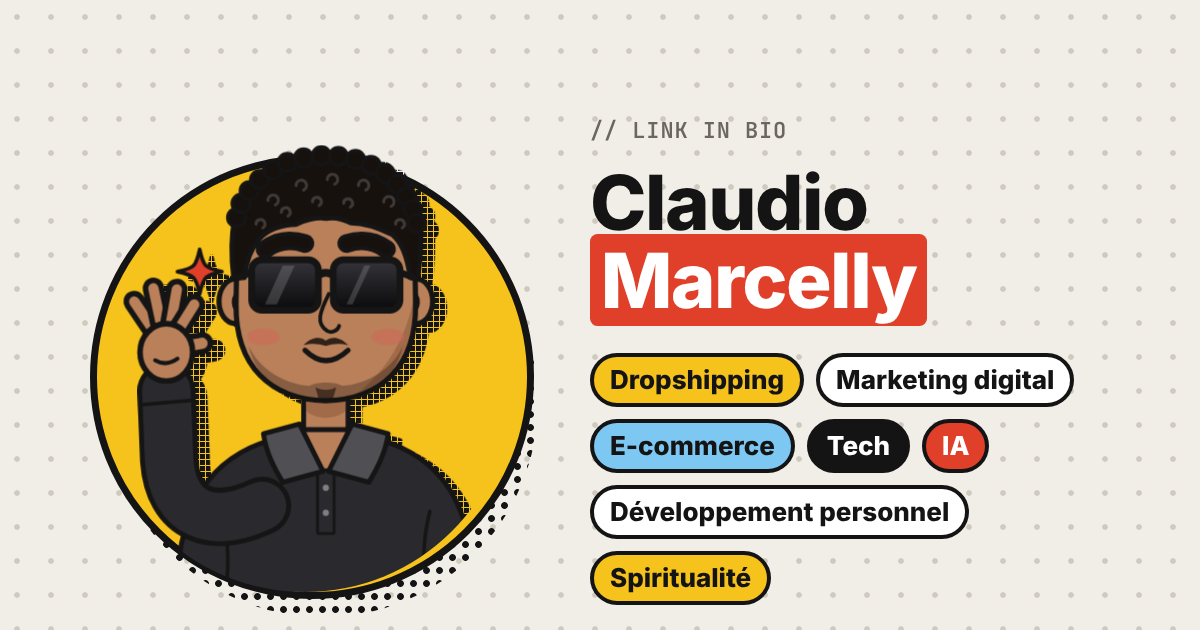
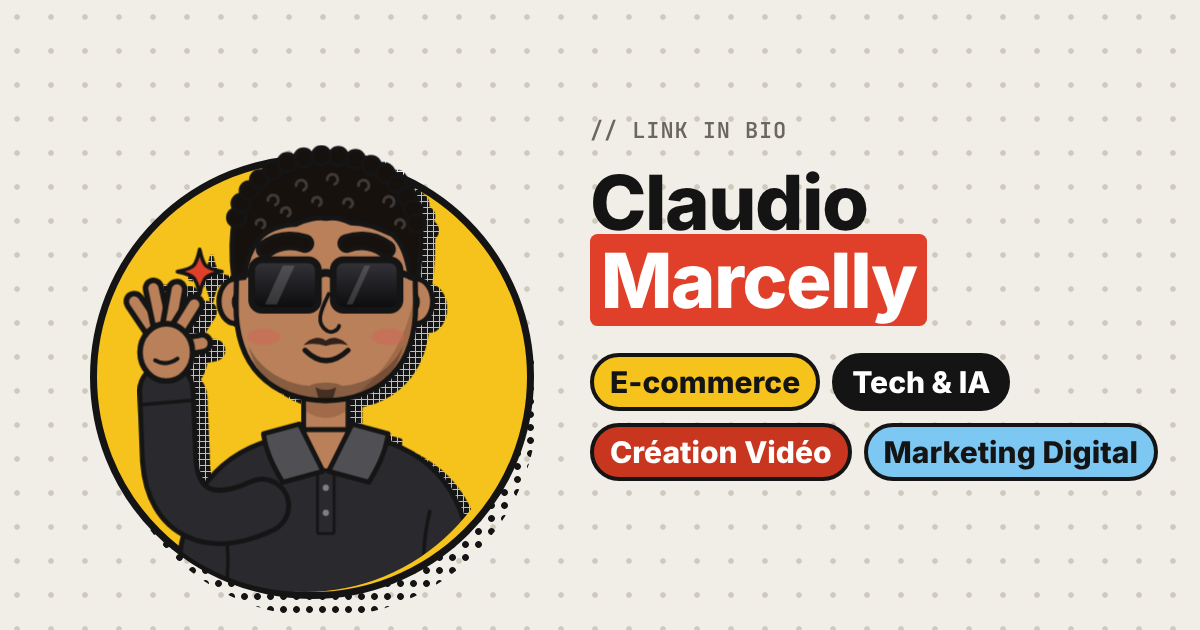
Sharpen positioning and polish conversion, a11y and mobile
- Header: 4 themes (E-commerce, Tech & IA, Création Vidéo, Marketing
  Digital); meta and share image updated.
- Favicon moved from a base64 data URI to favicon.png (-10 KB of HTML).
- Training card: 9:16 animated preview in the creator's video style
  (pure CSS, swappable for a <video>), "Format 100 % pratique" line.
- Calendly training link no longer in the markup: the booking button is
  created by JS only after the screenshot is confirmed, from a
  CALENDLY_FORMATION constant; dead data-calendly-direct code removed.
- TikTok card shown (@claudiomarcelly).
- Poll appears after 4 s or on first scroll instead of 0.9 s.
- Cleanup: single privacy note, maintenance notice kept as a comment,
  darker red (#C9361F) behind white text for 4.5:1 contrast, honeypot
  fields no longer extend past the viewport.

Claude-Session: https://claude.ai/code/session_011Zoe9ed2Q9z1aWz7E23U5T

Changed region(s): [[0.4933, 0.5429, 0.9867, 0.9651]]

diff --git a/index.html b/index.html
@@ -7,7 +7,7 @@
   <meta charset="UTF-8" />
   <meta name="viewport" content="width=device-width, initial-scale=1, viewport-fit=cover" />
   <title>Claudio Marcelly | Liens</title>
-  <meta name="description" content="Claudio Marcelly — Dropshipping, marketing digital, e-commerce, tech, IA, développement personnel et spiritualité. Réserve un appel ou retrouve-moi sur WhatsApp, YouTube et Instagram." />
+  <meta name="description" content="Claudio Marcelly — E-commerce, tech &amp; IA, création vidéo et marketing digital. Réserve un appel, rejoins la formation vidéo ou retrouve-moi sur mes réseaux." />
   <meta name="theme-color" content="#F1EEE8" />
   <meta name="color-scheme" content="light" />
   <link rel="canonical" href="https://marcellyclaudio2623.github.io/Linkinbio/" />
@@ -16,14 +16,14 @@
   <meta property="og:type" content="profile" />
   <meta property="og:url" content="https://marcellyclaudio2623.github.io/Linkinbio/" />
   <meta property="og:title" content="Claudio Marcelly" />
-  <meta property="og:description" content="Dropshipping, marketing digital, e-commerce, tech, IA, développement personnel et spiritualité. Réserve un appel ou retrouve-moi sur mes réseaux." />
+  <meta property="og:description" content="E-commerce, tech &amp; IA, création vidéo et marketing digital. Réserve un appel ou rejoins la formation vidéo." />
   <meta property="og:image" content="https://marcellyclaudio2623.github.io/Linkinbio/og-image.png" />
   <meta property="og:image:width" content="1200" />
   <meta property="og:image:height" content="630" />
   <meta name="twitter:card" content="summary_large_image" />
 
-  <!-- Favicon : la tête du personnage (PNG intégré, pas de fichier séparé) -->
[1 lines of base64/hex data omitted]
+  <!-- Favicon : la tête du personnage (fichier favicon.svg) -->
+  <link rel="icon" type="image/svg+xml" href="favicon.svg" />
 
   <!-- =========================================================
        POLICES (charte du studio présentateur)
@@ -54,6 +54,7 @@
       --encre:  #141414;   /* traits et texte */
       --gris:   #6B675F;   /* texte secondaire (contraste > 4.5:1) */
       --rouge:  #E0402A;   /* accent principal */
+      --rouge-fonce: #C9361F; /* fond rouge sous du texte blanc (contraste 5,2:1) */
       --jaune:  #F6C21C;
       --bleu:   #7CC8F2;
       --carte:  #FFFFFF;
@@ -245,7 +246,7 @@
     .theme--jaune { background: var(--jaune); }
     .theme--bleu  { background: var(--bleu); }
     .theme--encre { background: var(--encre); color: #fff; }
-    .theme--rouge { background: var(--rouge); color: #fff; }
+    .theme--rouge { background: var(--rouge-fonce); color: #fff; }
 
     /* Texte lu par les lecteurs d'écran, invisible à l'œil */
     .sr-only {
@@ -259,6 +260,7 @@
       white-space: nowrap;
       border: 0;
     }
+    .sr-only * { width: 1px; min-width: 0; }   /* champs pièges : rien ne dépasse de l'écran */
 
     /* =========================================================
        5. LIENS : cartes blanches, trait épais, ombre en points
@@ -431,6 +433,89 @@
     .etapes li::marker { color: var(--rouge); font-family: var(--mono); font-weight: 600; }
     .etapes a { color: var(--rouge); font-weight: 700; text-decoration: underline; text-underline-offset: 3px; overflow-wrap: anywhere; }
 
+    /* Formation : aperçu 9:16 à gauche, texte à droite */
+    .formation__intro {
+      display: grid;
+      grid-template-columns: auto minmax(0, 1fr);
+      gap: 14px;
+      align-items: center;
+    }
+    .formation__texte { display: grid; gap: 10px; }
+    .formation__preuve { text-transform: none; font-size: 0.75rem; line-height: 1.4; }
+
+    /* Mini-écran 9:16 dans le style des vidéos (fond bleu nuit quadrillé,
+       barre de progression rouge, titres qui arrivent, mot clé en rouge).
+       Une boucle de 4 s, en CSS seulement. */
+    .apercu { display: grid; gap: 6px; justify-items: center; }
+    .apercu .label { font-size: 0.6875rem; }
+    .apercu__ecran {
+      position: relative;
+      width: 92px;
+      aspect-ratio: 9 / 16;
+      overflow: hidden;
+      border: var(--bord) solid var(--encre);
+      border-radius: 14px;
+      background-color: #0f1b3d;
+      background-image:
+        linear-gradient(rgba(255, 255, 255, 0.07) 1px, transparent 1px),
+        linear-gradient(90deg, rgba(255, 255, 255, 0.07) 1px, transparent 1px);
+      background-size: 12px 12px;
+      box-shadow: 4px 4px 0 var(--encre);
+    }
+    .apercu__barre {
+      position: absolute;
+      top: 7px; left: 7px; right: 7px;
+      height: 3px;
+      border-radius: 2px;
+      background: rgba(255, 255, 255, 0.22);
+    }
+    .apercu__barre::after {
+      content: "";
+      position: absolute;
+      inset: 0 auto 0 0;
+      width: 100%;
+      border-radius: 2px;
+      background: var(--rouge);
+      transform-origin: left;
+      animation: apercu-barre 4s linear infinite;
+    }
+    .apercu__ligne, .apercu__mot {
+      position: absolute;
+      left: 8px;
+      font-weight: 800;
+      font-size: 0.8125rem;
+      line-height: 1;
+      color: #fff;
+      opacity: 0;
+      animation: apercu-texte 4s var(--ressort) infinite;
+    }
+    .apercu__ligne--1 { top: 38px; }
+    .apercu__ligne--2 { top: 55px; animation-delay: 0.25s; }
+    .apercu__mot {
+      top: 74px;
+      padding: 2px 5px 3px;
+      border-radius: 4px;
+      background: var(--rouge-fonce);
+      animation-delay: 0.55s;
+    }
+    .apercu__lecture {
+      position: absolute;
+      right: 7px; bottom: 7px;
+      display: grid;
+      place-items: center;
+      width: 22px; height: 22px;
+      border-radius: 50%;
+      background: #fff;
+      color: var(--encre);
+      font-size: 0.5625rem;
+    }
+    @keyframes apercu-barre { from { transform: scaleX(0); } to { transform: scaleX(1); } }
+    @keyframes apercu-texte {
+      0%, 8%   { opacity: 0; translate: -10px 0; }
+      18%, 85% { opacity: 1; translate: 0 0; }
+      95%, 100% { opacity: 0; translate: 0 0; }
+    }
+
     /* Formulaire d'envoi de la capture de paiement */
     .formulaire--paiement { margin-top: 0; gap: 16px; }
     .champ input[type="file"] { padding: 10px; font-size: 0.9375rem; cursor: pointer; }
@@ -464,7 +549,7 @@
       padding: 12px 18px;
       border: var(--bord) solid var(--encre);
       border-radius: 14px;
-      background: var(--rouge);
+      background: var(--rouge-fonce);
       color: #fff;
       font: 800 1rem/1.2 var(--sans);
       text-align: center;
@@ -534,7 +619,7 @@
     .question__num {
       font-family: var(--mono);
       font-weight: 600;
-      color: var(--rouge);
+      color: var(--rouge-fonce);
       margin-right: 6px;
     }
 
@@ -796,6 +881,8 @@
       .bouton:hover, .bouton:active, .choix input:checked + span { transform: none; }
       .lien:hover::after, .lien:active::after { transform: translate(var(--ombre), var(--ombre)); }
       .sondage, .sondage.est-partie { animation: none; }
+      .apercu__ligne, .apercu__mot { animation: none; opacity: 1; }
+      .apercu__barre::after { animation: none; transform: scaleX(0.6); }
       .sondage__choix button { transition: none; }
       .sondage__choix button:hover, .sondage__choix button:active { transform: none; }
     }
@@ -1246,13 +1333,10 @@
       <!-- Thèmes : une pastille par ligne, couleur au choix
            (theme--jaune, theme--bleu, theme--encre, theme--rouge, ou rien = blanc) -->
       <ul class="themes reveal" style="--d: 2" aria-label="Mes thèmes">
-        <li class="theme theme--jaune">Dropshipping</li>
-        <li class="theme">Marketing digital</li>
-        <li class="theme theme--bleu">E-commerce</li>
-        <li class="theme theme--encre">Tech</li>
-        <li class="theme theme--rouge">IA</li>
-        <li class="theme">Développement personnel</li>
-        <li class="theme theme--jaune">Spiritualité</li>
+        <li class="theme theme--jaune">E-commerce</li>
+        <li class="theme theme--encre">Tech &amp; IA</li>
+        <li class="theme theme--rouge">Création Vidéo</li>
+        <li class="theme theme--bleu">Marketing Digital</li>
       </ul>
     </header>
 
@@ -1370,9 +1454,7 @@
           </div>
 
           <button class="bouton" type="submit">Voir si je suis éligible</button>
-          <!-- Une seule de ces deux mentions s'affiche, selon que l'historique est activé ou non -->
-          <p class="mention" data-mention="local"><i class="fa-solid fa-lock" aria-hidden="true"></i> // Tes réponses restent dans ton navigateur. Elles ne sont transmises à Calendly que si tu réserves un créneau.</p>
-          <p class="mention" data-mention="historique" hidden><i class="fa-solid fa-lock" aria-hidden="true"></i> // Tes réponses sont transmises à Claudio pour préparer l'appel ou te recontacter, et à Calendly si tu réserves un créneau.</p>
+          <p class="mention"><i class="fa-solid fa-lock" aria-hidden="true"></i> // Tes réponses sont transmises à Claudio pour préparer l'appel ou te recontacter, et à Calendly si tu réserves un créneau.</p>
         </form>
 
         <div class="resultat" id="resultat" hidden tabindex="-1" aria-live="polite"></div>
@@ -1423,14 +1505,32 @@
       <div class="appel__carte reveal" style="--d: 5">
         <span class="pastille pastille--bleu">Formation 1&nbsp;h&nbsp;30 · 100&nbsp;000&nbsp;Ar</span>
         <h3 class="appel__titre">Des vidéos comme les miennes&nbsp;? <em>Je t'apprends.</em></h3>
-        <p class="appel__texte">Apprends en 1&nbsp;h&nbsp;30, en visio, à créer des vidéos explicatives animées pour TikTok, Reels et Shorts.</p>
 
-        <!-- MAINTENANCE : pour fermer les inscriptions, retirez hidden de ce <p>
-             et ajoutez hidden sur le bouton id="ouvrir-formation". -->
-        <p class="paiement__etat est-ok" id="paiement-maintenance" hidden>
-          <i class="fa-solid fa-screwdriver-wrench" aria-hidden="true"></i>
-          Inscriptions en cours de mise à jour. Reviens très bientôt&nbsp;!
-        </p>
+        <div class="formation__intro">
+          <!-- Aperçu du style enseigné (animation en CSS, aucun fichier à charger).
+               Pour une vraie vidéo : remplacez le contenu de <figure> par
+               <video src="apercu.mp4" poster="apercu.jpg" autoplay loop muted playsinline></video>
+               (9:16, quelques secondes, moins de 3 Mo). -->
+          <figure class="apercu">
+            <div class="apercu__ecran" role="img" aria-label="Aperçu animé : titres qui apparaissent, mot clé en rouge et barre de progression, comme dans mes vidéos">
+              <span class="apercu__barre" aria-hidden="true"></span>
+              <span class="apercu__ligne apercu__ligne--1" aria-hidden="true">Lance ta</span>
+              <span class="apercu__ligne apercu__ligne--2" aria-hidden="true">boutique</span>
+              <span class="apercu__mot" aria-hidden="true">en 30&nbsp;s</span>
+              <span class="apercu__lecture" aria-hidden="true"><i class="fa-solid fa-play"></i></span>
+            </div>
+            <figcaption class="label">// aperçu</figcaption>
+          </figure>
+          <div class="formation__texte">
+            <p class="appel__texte">Apprends en 1&nbsp;h&nbsp;30, en visio, à créer des vidéos explicatives animées pour TikTok, Reels et Shorts.</p>
+            <p class="label formation__preuve">// Format 100&nbsp;% pratique · Code &amp; Animation</p>
+          </div>
+        </div>
+
+        <!-- MAINTENANCE (fermer les inscriptions) : collez ce paragraphe ici
+             et ajoutez hidden sur le bouton id="ouvrir-formation" :
+             <p class="paiement__etat est-ok"><i class="fa-solid fa-screwdriver-wrench" aria-hidden="true"></i>
+               Inscriptions en cours de mise à jour. Reviens très bientôt&nbsp;!</p> -->
 
         <!-- Un seul bouton, comme la carte « Appel découverte » :
              les étapes et le formulaire de paiement s'ouvrent au clic -->
@@ -1481,11 +1581,8 @@
           <p class="mention"><i class="fa-solid fa-lock" aria-hidden="true"></i> // Ta capture est enregistrée en privé : seul Claudio peut la voir.</p>
         </form>
         <p class="paiement__etat" id="paiement-etat" role="status" aria-live="polite" hidden></p>
-        <a class="bouton" data-calendly-direct data-reaction="content pointe" id="reserver-formation" hidden
-           href="https://calendly.com/claudiomarcellyb/projet-video-30-min-ta-video-explicative"
-           target="_blank" rel="noopener noreferrer">
-          <i class="fa-solid fa-calendar-check" aria-hidden="true"></i> Réserver ma formation
-        </a>
+        <!-- Le bouton « Réserver ma formation » est créé par le script, après une
+             capture de paiement reçue (adresse : CALENDLY_FORMATION dans le script). -->
         </div>
       </div>
     </section>
@@ -1525,15 +1622,14 @@
         <i class="fa-solid fa-arrow-right lien__fleche" aria-hidden="true"></i>
       </a>
 
-      <!-- TikTok — MASQUÉ (attribut hidden) en attendant le lien.
-           À REMPLACER : votre @, puis supprimez "hidden" -->
-      <a class="lien lien--tiktok reveal" style="--d: 8" data-reaction="malin pointe" hidden
-         href="https://www.tiktok.com/@VOTRE-COMPTE"
+      <!-- TikTok -->
+      <a class="lien lien--tiktok reveal" style="--d: 8" data-reaction="malin pointe"
+         href="https://www.tiktok.com/@claudiomarcelly"
          target="_blank" rel="noopener noreferrer">
         <span class="lien__icone" aria-hidden="true"><i class="fa-brands fa-tiktok"></i></span>
         <span class="lien__texte">
           <span class="lien__titre">TikTok</span>
-          <span class="lien__info">// les formats courts</span>
+          <span class="lien__info">// @claudiomarcelly</span>
         </span>
         <i class="fa-solid fa-arrow-right lien__fleche" aria-hidden="true"></i>
       </a>
@@ -1592,7 +1688,7 @@
 
   <!-- =====================================================
        SONDAGE « D'où viens-tu ? »
-       Apparaît en bas de l'écran à l'arrivée, une seule fois par visiteur,
+       Apparaît en bas de l'écran après 4 s ou au premier défilement, une seule fois par visiteur,
        sans bloquer la page. La réponse est enregistrée dans l'onglet
        SONDAGE du tableau Google, et jointe au formulaire (tableau, HubSpot,
        Calendly) si la personne le remplit ensuite.
@@ -1746,12 +1842,21 @@
         if (e.key === 'Escape' && !sondage.hidden && !sondage.classList.contains('est-partie')) passer();
       });
 
-      // Apparaît juste après la page ; le personnage prend l'air de poser la question
-      setTimeout(function () {
+      // Apparaît en douceur : après 4 s sur la page ou au premier défilement
+      // (le premier des deux), jamais pendant la lecture du haut de page.
+      // Le personnage prend alors l'air de poser la question.
+      var montre = false;
+      function montrer() {
+        if (montre) return;
+        montre = true;
+        window.removeEventListener('scroll', montrer);
+        clearTimeout(minuteur);
         sondage.hidden = false;
         document.documentElement.style.setProperty('--place-sondage', (sondage.offsetHeight + 24) + 'px');
         if (perso) perso.dataset.expr = 'question';
-      }, 900);
+      }
+      var minuteur = setTimeout(montrer, 4000);
+      window.addEventListener('scroll', montrer, { passive: true });
     })();
 
     /* Formulaire d'éligibilité : le calcul se fait dans le navigateur.
@@ -1767,10 +1872,6 @@
       if (!ouvrir || !form || !resultat) return;
 
       var historique = form.dataset.historique;
-      if (historique) {
-        form.querySelector('[data-mention="local"]').hidden = true;
-        form.querySelector('[data-mention="historique"]').hidden = false;
-      }
 
       // Valeur choisie pour une question (bouton radio ou menu déroulant)
       function reponse(nom) {
@@ -1884,14 +1985,18 @@
 
     /* Formation : envoi de la capture de paiement au script Google (Drive +
        onglet PAIEMENTS). L'image est réduite (1600 px max, JPEG) avant l'envoi.
-       Le bouton de réservation n'apparaît qu'après confirmation du script. */
+       Le bouton de réservation n'existe pas dans la page : il est créé ici,
+       seulement après confirmation du script. */
     (function () {
+      // Adresse de l'événement Calendly « Formation vidéo 1h30 ».
+      // Si vous changez l'adresse de l'événement dans Calendly, mettez la nouvelle ici.
+      var CALENDLY_FORMATION = 'https://calendly.com/claudiomarcellyb/projet-video-30-min-ta-video-explicative';
+
       var form = document.getElementById('paiement');
       var etat = document.getElementById('paiement-etat');
-      var reserver = document.getElementById('reserver-formation');
       var eligibilite = document.getElementById('eligibilite');
       var adresse = eligibilite ? eligibilite.dataset.historique : '';
-      if (!form || !etat || !reserver) return;
+      if (!form || !etat) return;
       var bouton = form.querySelector('button[type="submit"]');
 
       // Le bouton « M'inscrire à la formation » ouvre les étapes et le formulaire
@@ -1971,33 +2076,27 @@
           if (texte.trim() !== 'ok') throw new Error(texte);
           form.hidden = true;
           afficher('Capture reçue, merci ' + prenom + ' ! Tu peux maintenant réserver ton créneau.', 'est-ok');
-          var url = new URL(reserver.href);
+          var url = new URL(CALENDLY_FORMATION);
           url.searchParams.set('name', prenom);
           url.searchParams.set('first_name', prenom);
           url.searchParams.set('email', email);
           url.searchParams.set('a1', 'Paiement envoyé : ' + moyen + ' depuis le ' + numero + ' (capture reçue)');
+          url.searchParams.set('utm_source', 'linkinbio');
+          if (source) url.searchParams.set('utm_content', source);
+
+          var reserver = document.createElement('a');
+          reserver.className = 'bouton';
+          reserver.id = 'reserver-formation';
           reserver.href = url.toString();
-          reserver.hidden = false;
+          reserver.target = '_blank';
+          reserver.rel = 'noopener noreferrer';
+          reserver.innerHTML = '<i class="fa-solid fa-calendar-check" aria-hidden="true"></i> Réserver ma formation';
+          etat.after(reserver);
           reserver.focus();
         }).catch(function () {
           bouton.disabled = false;
           bouton.textContent = 'Envoyer la capture';
           afficher('L\'envoi n\'a pas marché. Vérifie ta connexion et réessaie. Si ça bloque encore, écris à ' + MAIL + '.', 'est-erreur');
-        });
-      });
-    })();
-
-    /* Réservations Calendly directes (ex. « Projet vidéo ») : au clic, on ajoute
-       l'origine du visiteur au lien, pour la retrouver dans le rendez-vous. */
-    (function () {
-      document.querySelectorAll('[data-calendly-direct]').forEach(function (lien) {
-        lien.addEventListener('click', function () {
-          var url = new URL(lien.href);
-          url.searchParams.set('utm_source', 'linkinbio');
-          var source = '';
-          try { source = localStorage.getItem('source-visite') || ''; } catch (e) {}
-          if (source) url.searchParams.set('utm_content', source);
-          lien.href = url.toString();
         });
       });
     })();
